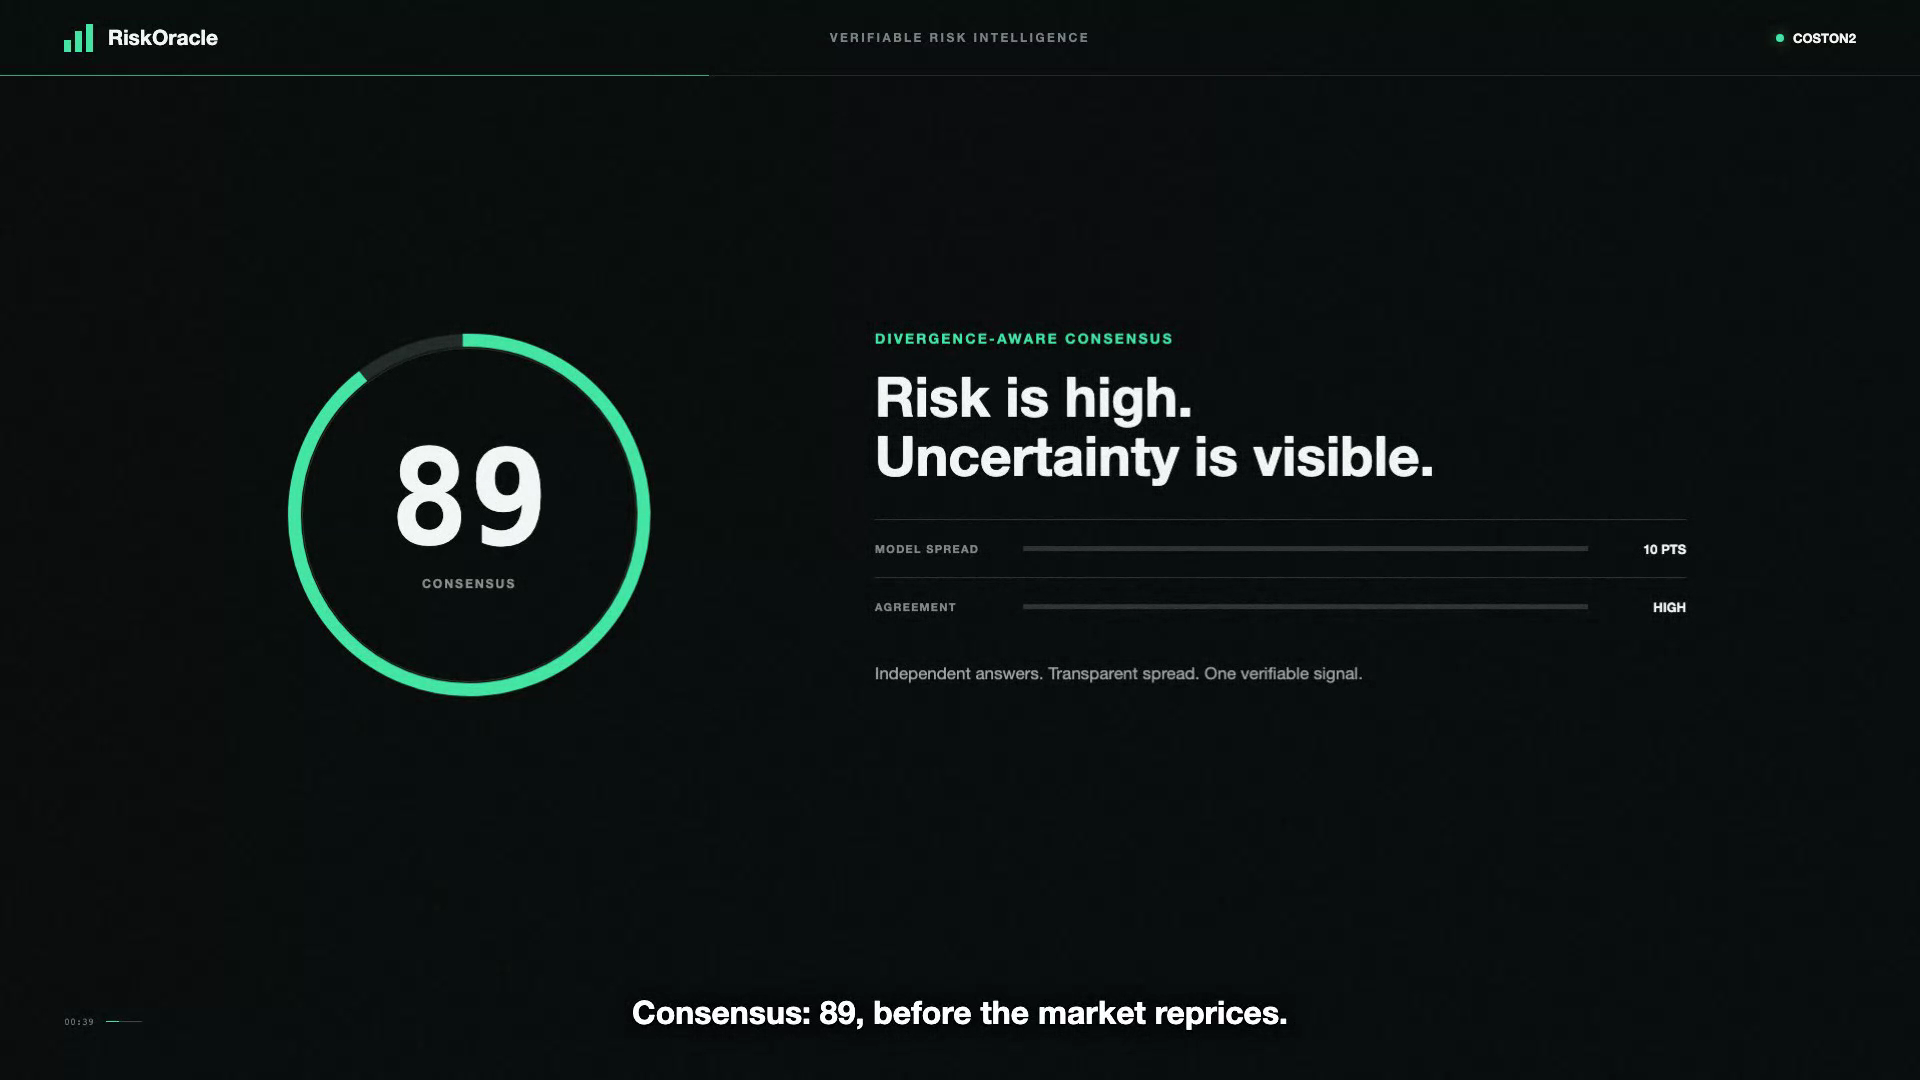
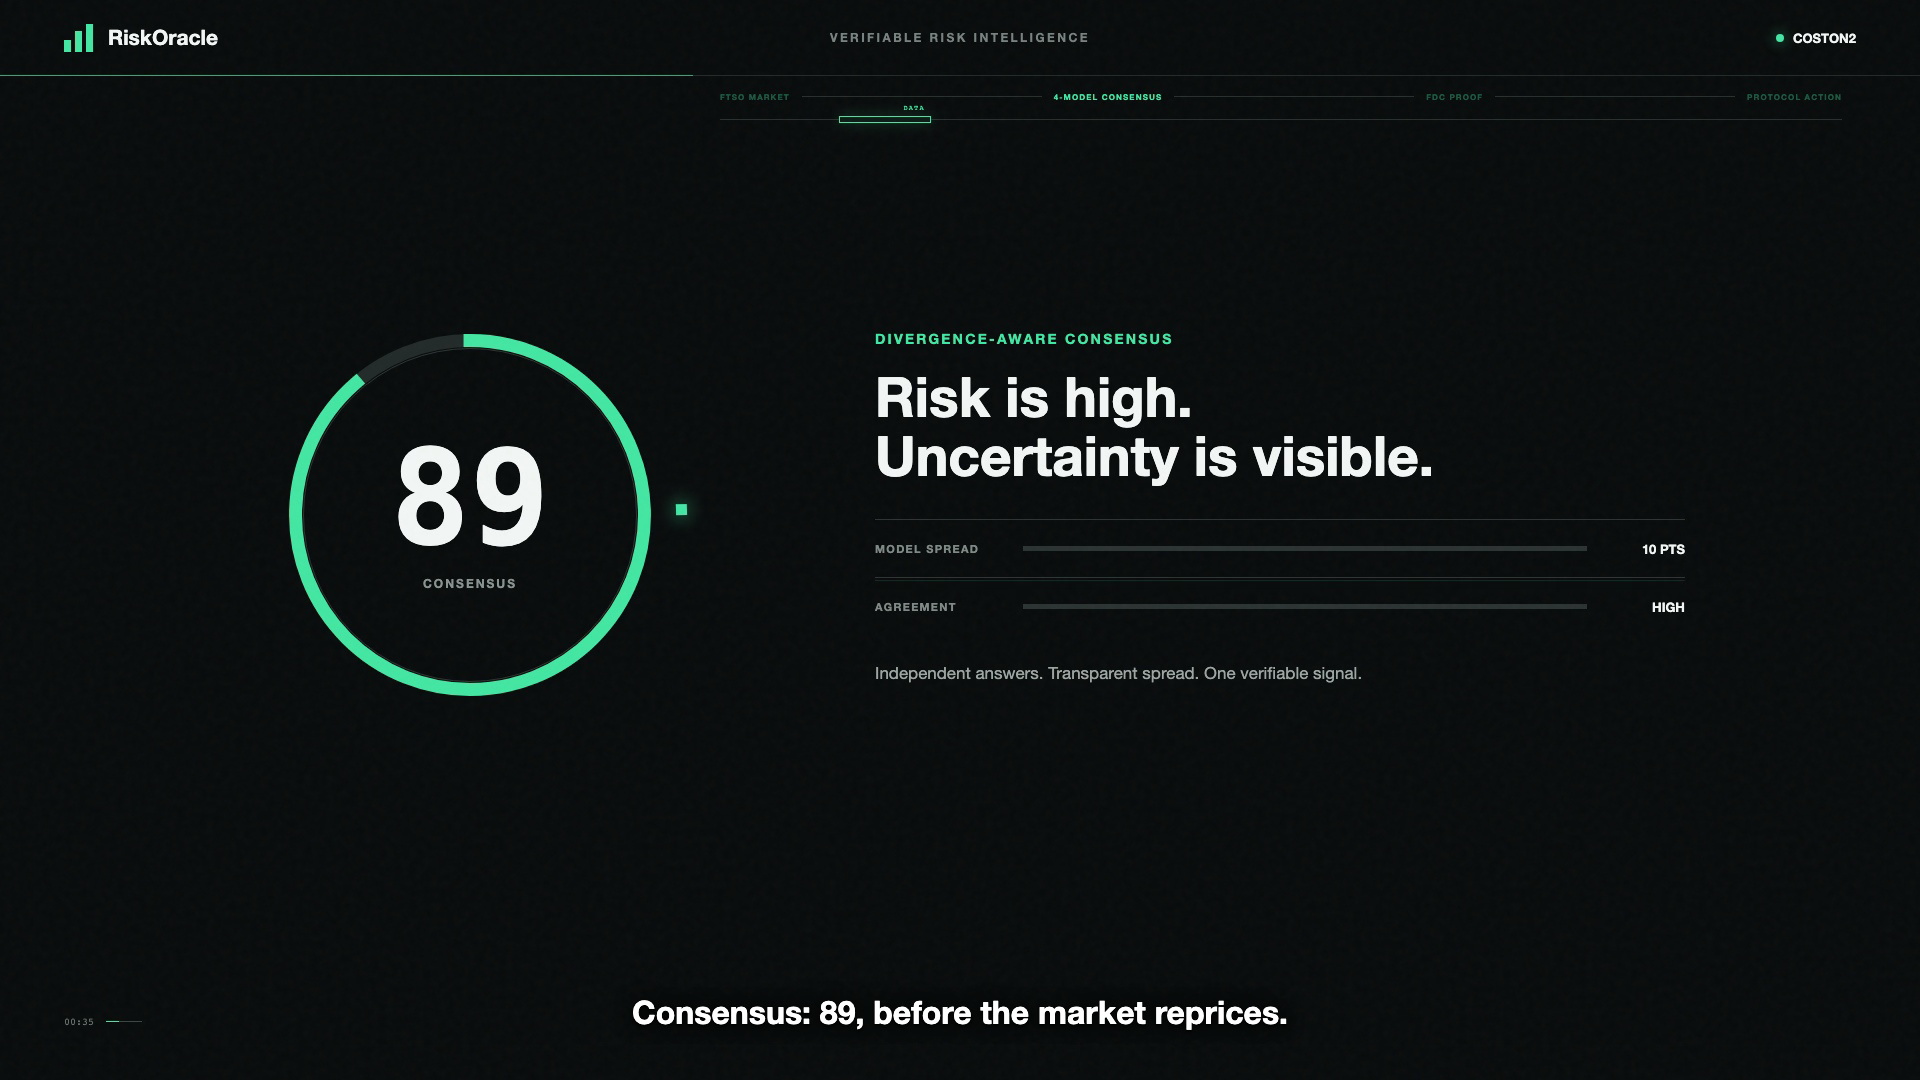
Refine judge film pacing motion and clarity

diff --git a/video/src/movie.js b/video/src/movie.js
@@ -1,5 +1,6 @@
 (() => {
-  const DURATION = 108;
+  const DURATION = 97;
+  const STORY_DURATION = 108;
   const film = document.getElementById("film");
   const root = document.documentElement;
   const scenes = [...document.querySelectorAll("[data-scene]")].map((element) => {
@@ -9,27 +10,27 @@
 
   const headline = "US SEC announces formal investigation into Ripple; exchanges consider suspending XRP trading.";
   const captions = [
-    [1.10, 3.964, "The XRP price hasn't moved."],
-    [3.914, 6.134, "But the risk already has."],
-    [6.134, 10.904, "Most DeFi collateral controls wait for price data to reveal a crisis."],
-    [10.904, 14.654, "By then, lending markets may already be exposed."],
-    [14.654, 18.744, "This is RiskOracle, built for interoperable assets on Flare."],
-    [18.744, 22.833, "Watch the same XRP price as a regulatory shock arrives."],
-    [22.833, 25.649, "A price-only oracle still reads low."],
-    [25.649, 29.557, "RiskOracle sends the headline to four independent models."],
-    [29.557, 38.064, "GPT-5.5 scores 92, Claude Opus 85, DeepSeek 95, and Qwen3 85."],
-    [38.064, 42.215, "Consensus: 89, before the market reprices."],
-    [42.215, 45.200, "The models never see one another's answers."],
-    [45.200, 52.664, "RiskOracle exposes their spread and applies divergence-aware consensus, making uncertainty visible instead of hiding it."],
-    [52.664, 56.899, "The pipeline begins with Flare FTSOv2 market state."],
-    [56.899, 62.033, "AI adds event, liquidity, volatility, and contagion context."],
-    [62.033, 70.734, "Because model output is non-deterministic, RiskOracle freezes the result into deterministic JSON for FDC Web2Json attestation."],
-    [70.734, 79.314, "Here is the proof: deployed Coston2 contracts, immutable RiskUpdated events, and a successful end-to-end FDC transaction."],
-    [79.314, 85.673, "Continuous demo updates use a lightweight signer; the full FDC path is already proven on-chain."],
-    [85.673, 93.562, "At risk 95, the FXRP lending example suspends new borrowing, and the insurance pool stops new underwriting."],
-    [93.562, 97.251, "One signal; policy remains with each protocol."],
-    [97.251, 100.516, "Built from scratch during Flare Summer Signal."],
-    [100.516, 106.571, "RiskOracle: verifiable risk intelligence for interoperable assets, before price reacts."]
+    [1.050, 2.832, "The XRP price hasn't moved."],
+    [2.832, 4.474, "But the risk already has."],
+    [4.474, 8.764, "Most DeFi collateral controls wait for price data to reveal a crisis."],
+    [8.764, 11.709, "By then, lending markets may already be exposed."],
+    [11.709, 15.459, "This is RiskOracle, built for interoperable assets on Flare."],
+    [15.459, 19.050, "Watch the same XRP price as a regulatory shock arrives."],
+    [19.050, 21.095, "A price-only oracle still reads low."],
+    [21.095, 24.591, "RiskOracle sends the headline to four independent models."],
+    [24.591, 32.430, "GPT-5.5 scores 92, Claude Opus 85, DeepSeek 95, and Qwen3 85."],
+    [32.430, 36.137, "Consensus: 89, before the market reprices."],
+    [36.137, 38.531, "The models never see one another's answers."],
+    [38.531, 46.052, "RiskOracle exposes their spread and applies divergence-aware consensus, making uncertainty visible instead of hiding it."],
+    [46.052, 49.802, "The pipeline begins with Flare FTSOv2 market state."],
+    [49.802, 54.262, "AI adds event, liquidity, volatility, and contagion context."],
+    [54.262, 62.504, "Because model output is non-deterministic, RiskOracle freezes the result into deterministic JSON for FDC Web2Json attestation."],
+    [62.504, 70.703, "Here is the proof: deployed Coston2 contracts, immutable RiskUpdated events, and a successful end-to-end FDC transaction."],
+    [70.703, 76.752, "Continuous demo updates use a lightweight signer; the full FDC path is already proven on-chain."],
+    [76.752, 83.669, "At risk 95, the FXRP lending example suspends new borrowing, and the insurance pool stops new underwriting."],
+    [83.669, 86.624, "One signal; policy remains with each protocol."],
+    [86.624, 89.103, "Built from scratch during Flare Summer Signal."],
+    [89.103, 94.802, "RiskOracle: verifiable risk intelligence for interoperable assets, before price reacts."]
   ];
 
   const modelSchedule = [
@@ -67,12 +68,8 @@
       const opacity = sceneOpacity(t, start, end);
       const entrance = ease(progress(t, start, start + 1.3));
       const exit = ease(progress(t, end - 1.2, end));
-      const camera = progress(t, start, end);
-      const drift = Math.sin((t - start) * 0.42) * 0.65;
       setElement(element, "--scene-opacity", opacity.toFixed(4));
-      setElement(element, "--scene-y", `${((1 - entrance) * 34 - exit * 20 - camera * 3 + drift).toFixed(3)}px`);
-      setElement(element, "--scene-scale", (0.986 + entrance * 0.014 + camera * 0.008 + exit * 0.01).toFixed(5));
-      setElement(element, "--scene-blur", `${((1 - entrance) * 5 + exit * 4).toFixed(2)}px`);
+      setElement(element, "--scene-y", `${Math.round((1 - entrance) * 24 - exit * 12)}px`);
       element.style.visibility = opacity > 0.001 ? "visible" : "hidden";
     });
     set("--topbar-show", smooth(progress(t, 12.8, 14.4)) * (1 - smooth(progress(t, 96.2, 98.0))));
@@ -85,6 +82,7 @@
     set("--hook-switch", ease(progress(t, 3.3, 4.4)));
     set("--event-show", ease(progress(t, 4.2, 5.1)));
     set("--exposure-show", ease(progress(t, 8.2, 9.7)));
+    set("--exposure-packet", `${((Math.max(t - 8.4, 0) / 1.5) % 1) * 100}%`);
   }
 
   function updateDemo(t) {
@@ -157,6 +155,7 @@
     set("--hash-reveal", ease(progress(t, 71.4, 74.4)));
     set("--event-row-show", ease(progress(t, 74.0, 76.7)));
     document.getElementById("block-count").textContent = String(Math.round(Number(number(33099000, 33099670, progress(t, 70.8, 73.8)))));
+    document.getElementById("confirm-count").textContent = `${String(Math.max(1, Math.round(Number(number(1, 18, progress(t, 72.0, 83.5)))))).padStart(2, "0")} / 18`;
   }
 
   function updateProtocols(t) {
@@ -204,14 +203,27 @@
   function render(t) {
     const time = clamp(t, 0, DURATION);
     set("--film-progress", time / DURATION);
-    updateScenes(time);
-    updateHook(time);
-    updateDemo(time);
-    updateConsensus(time);
-    updatePipeline(time);
-    updateProof(time);
-    updateProtocols(time);
-    updateOutro(time);
+    const storyTime = time * (STORY_DURATION / DURATION);
+    set("--micro", ((Math.sin(storyTime * 3.1) + 1) / 2).toFixed(4));
+    set("--micro-alt", ((Math.sin(storyTime * 2.2 + 1.7) + 1) / 2).toFixed(4));
+    set("--ring-angle", `${(storyTime * 11.5).toFixed(2)}deg`);
+    set("--proof-scan", `${((storyTime * 9) % 100).toFixed(2)}%`);
+    set("--market-scan-x", `${(4 + (storyTime * 8.5) % 90).toFixed(2)}%`);
+    set("--consensus-scan", `${((storyTime * 12) % 100).toFixed(2)}%`);
+    set("--rail-x", `${((storyTime * 7.2) % 90).toFixed(2)}%`);
+    set("--rail-show", 1 - smooth(progress(storyTime, 96.0, 99.0)));
+    set("--phase-market", storyTime < 24 ? 1 : 0.35);
+    set("--phase-models", storyTime >= 24 && storyTime < 52 ? 1 : 0.35);
+    set("--phase-proof", storyTime >= 52 && storyTime < 82 ? 1 : 0.35);
+    set("--phase-policy", storyTime >= 82 ? 1 : 0.35);
+    updateScenes(storyTime);
+    updateHook(storyTime);
+    updateDemo(storyTime);
+    updateConsensus(storyTime);
+    updatePipeline(storyTime);
+    updateProof(storyTime);
+    updateProtocols(storyTime);
+    updateOutro(storyTime);
     updateCaption(time);
     document.getElementById("timecode").textContent = `${String(Math.floor(time / 60)).padStart(2, "0")}:${String(Math.floor(time % 60)).padStart(2, "0")}`;
     film.dataset.time = time.toFixed(3);

diff --git a/video/src/movie.css b/video/src/movie.css
@@ -93,6 +93,16 @@ body { font-variant-numeric: tabular-nums; }
 .topbar-center { text-align: center; color: #77827f; font-size: 12px; font-weight: 700; letter-spacing: 2.4px; }
 .network { justify-self: end; display: flex; gap: 9px; align-items: center; font-size: 13px; font-weight: 750; }
 .network i, .live i { width: 8px; height: 8px; border-radius: 50%; background: var(--mint); box-shadow: 0 0 14px rgba(67,230,162,.65); }
+.signal-rail { position:absolute; z-index:41; top:92px; left:720px; right:78px; height:32px; display:grid; grid-template-columns:auto 1fr auto 1fr auto 1fr auto; gap:12px; align-items:start; color:#56615e; font-size:8px; font-weight:780; letter-spacing:1.1px; opacity:var(--rail-show,1); }
+.signal-rail::after { content:""; position:absolute; left:0; right:0; bottom:4px; height:1px; background:#26302d; }
+.signal-rail > i { height:1px; margin-top:4px; background:#26302d; }
+.signal-rail > span { transition:none; }
+.signal-rail .rail-market { color:rgba(67,230,162,var(--phase-market,.4)); }
+.signal-rail .rail-models { color:rgba(67,230,162,var(--phase-models,.4)); }
+.signal-rail .rail-proof { color:rgba(67,230,162,var(--phase-proof,.4)); }
+.signal-rail .rail-policy { color:rgba(67,230,162,var(--phase-policy,.4)); }
+.signal-rail > b { position:absolute; z-index:2; left:var(--rail-x,0%); bottom:1px; width:92px; height:7px; border:1px solid var(--mint); background:#0c1c16; box-shadow:0 0 14px rgba(67,230,162,.22); }
+.signal-rail > b::after { content:"DATA"; position:absolute; right:5px; top:-13px; color:var(--mint); font:7px ui-monospace,monospace; }
 
 .stage { position: absolute; inset: 0; z-index: 2; }
 .scene {
@@ -101,10 +111,9 @@ body { font-variant-numeric: tabular-nums; }
   padding: 108px 76px 150px;
   background: var(--bg);
   opacity: var(--scene-opacity);
-  transform: translateY(var(--scene-y)) scale(var(--scene-scale));
-  filter: blur(var(--scene-blur));
+  transform: translate3d(0, var(--scene-y), 0);
   transform-origin: center center;
-  will-change: opacity, transform, filter;
+  will-change: opacity, transform;
 }
 
 .section-label {
@@ -127,8 +136,8 @@ body { font-variant-numeric: tabular-nums; }
 .scene-hook { padding-top: 150px; }
 .hook-copy { position: absolute; left: 110px; top: 176px; width: 740px; }
 .hook-copy .eyebrow { display: flex; align-items: center; gap: 12px; }
-.pulse-dot { width: 10px; height: 10px; border-radius: 50%; background: var(--mint); box-shadow: 0 0 0 0 rgba(67,230,162,.45); animation: pulse 1.5s infinite; }
-@keyframes pulse { 65% { box-shadow: 0 0 0 12px rgba(67,230,162,0); } }
+.pulse-dot { width: 10px; height: 10px; border-radius: 50%; background: var(--mint); box-shadow: 0 0 0 0 rgba(67,230,162,.45); }
+.pulse-dot { box-shadow: 0 0 0 calc(var(--micro,0) * 12px) rgba(67,230,162,calc(.45 - var(--micro,0) * .45)); }
 .hook-copy h1 { margin: 30px 0 0; font-size: 100px; line-height: .98; font-weight: 760; letter-spacing: 0; }
 .hook-copy h1 span { color: #6f7876; }
 .hook-switch { margin: 34px 0 0; font-size: 31px; color: #b7c0bd; opacity: var(--hook-switch, 0); transform: translateY(calc((1 - var(--hook-switch, 0)) * 18px)); }
@@ -145,6 +154,7 @@ body { font-variant-numeric: tabular-nums; }
   box-shadow: 0 30px 80px rgba(0,0,0,.4);
   transform: translateX(calc((1 - var(--terminal-show, 0)) * 70px));
 }
+.price-terminal::after { content:""; position:absolute; z-index:3; left:var(--market-scan-x,4%); top:260px; width:1px; height:190px; background:var(--mint); opacity:.22; box-shadow:0 0 12px rgba(67,230,162,.45); }
 .terminal-head { height: 74px; padding: 0 28px; display: flex; align-items: center; justify-content: space-between; border-bottom: 1px solid var(--line); }
 .terminal-head div:first-child { display: flex; align-items: baseline; gap: 12px; }
 .terminal-head strong { font-size: 18px; }
@@ -159,6 +169,7 @@ body { font-variant-numeric: tabular-nums; }
 .grid-path { fill: none; stroke: #242c2b; stroke-width: 1; }
 .market-path { fill: none; stroke: var(--mint); stroke-width: 3; stroke-dasharray: 840; stroke-dashoffset: calc(840 * (1 - var(--line-progress, 0))); }
 .market-point { fill: var(--mint); opacity: var(--market-point, 0); }
+.market-point { transform:scale(calc(.72 + var(--micro,0) * .45)); transform-origin:center; transform-box:fill-box; }
 .event-wire { position: absolute; left: 0; right: 0; bottom: 0; height: 64px; padding: 0 28px; display: flex; align-items: center; justify-content: space-between; border-top: 1px solid #422828; background: #1b1111; color: #d99a9a; transform: scaleX(var(--event-show, 0)); transform-origin: right; }
 .event-time { font-family: ui-monospace, monospace; color: #8b6666; }
 .event-label { font-weight: 780; letter-spacing: 1.8px; }
@@ -183,6 +194,7 @@ body { font-variant-numeric: tabular-nums; }
 .exposure-state { display: flex; align-items: center; gap: 10px; font-size: 14px; font-weight: 800; }
 .exposure-state span { width: 11px; height: 11px; border-radius: 50%; background: var(--mint); }
 .exposure-arrow { height: 1px; background: #394241; position: relative; }
+.exposure-arrow::before { content:""; position:absolute; left:var(--exposure-packet,0%); top:-3px; width:7px; height:7px; background:var(--red); box-shadow:0 0 12px rgba(255,93,93,.6); }
 .exposure-arrow::after { content:""; position: absolute; right: 0; top: -5px; border-left: 8px solid #596360; border-top: 5px solid transparent; border-bottom: 5px solid transparent; }
 .exposure-account { display: flex; flex-direction: column; gap: 8px; text-align: right; }
 .exposure-account span { color: #899390; font-size: 12px; letter-spacing: 1.2px; }
@@ -218,6 +230,7 @@ body { font-variant-numeric: tabular-nums; }
 .model-top { display: grid; grid-template-columns: 32px 1fr 9px; gap: 10px; align-items: center; color: #b8c1be; font-size: 12px; font-weight: 760; }
 .model-icon { display: grid; place-items: center; width: 30px; height: 30px; border: 1px solid #48524f; color: var(--mint); font-family: ui-monospace, monospace; }
 .model-top i { width: 8px; height: 8px; border-radius: 50%; background: var(--mint); opacity: var(--model-ready, 0); }
+.model-top i { box-shadow:0 0 calc(4px + var(--micro,0) * 10px) rgba(67,230,162,.7); }
 .model-score { display: flex; align-items: baseline; margin-top: 22px; }
 .model-score b { font: 740 58px/1 ui-monospace, SFMono-Regular, Menlo, monospace; }
 .model-score small { color: #75817d; font-size: 13px; }
@@ -234,6 +247,7 @@ body { font-variant-numeric: tabular-nums; }
 .ring-wrap { position: relative; width: 470px; height: 470px; display: grid; place-items: center; }
 .ring-wrap::after { content:""; position:absolute; inset: 68px; border: 1px solid #2c3533; border-radius: 50%; }
 .ring-wrap svg { width: 420px; height: 420px; transform: rotate(-90deg); }
+.ring-wrap::before { content:""; position:absolute; z-index:3; left:231px; top:18px; width:11px; height:11px; background:var(--mint); box-shadow:0 0 18px rgba(67,230,162,.8); transform-origin:4px 217px; transform:rotate(var(--ring-angle,0deg)); }
 .ring-base, .ring-progress { fill: none; stroke-width: 8; }
 .ring-base { stroke: #222a29; }
 .ring-progress { stroke: var(--mint); stroke-linecap: square; stroke-dasharray: 678.6; stroke-dashoffset: calc(678.6 * (1 - var(--consensus-progress, 0))); }
@@ -242,6 +256,8 @@ body { font-variant-numeric: tabular-nums; }
 .ring-value span { margin-top: 18px; color: #88928f; font-size: 12px; font-weight: 760; letter-spacing: 2px; }
 .consensus-copy h2, .pipeline-title h2, .proof-copy h2, .protocol-heading h2 { margin: 20px 0 34px; font-size: 55px; line-height: 1.08; letter-spacing: 0; }
 .agreement-row { display: grid; grid-template-columns: 130px 1fr 80px; gap: 18px; align-items: center; min-height: 58px; border-top: 1px solid #2c3433; }
+.consensus-copy::after { content:""; position:absolute; left:0; right:0; top:var(--consensus-scan,35%); height:1px; background:var(--mint); opacity:.14; }
+.consensus-copy { position:relative; overflow:hidden; }
 .agreement-row > span { color: #7e8986; font-size: 11px; font-weight: 760; letter-spacing: 1.3px; }
 .agreement-row > strong { text-align: right; font-size: 13px; }
 .spread-line, .agreement-meter { height: 5px; background: #2b3332; position: relative; }
@@ -249,6 +265,9 @@ body { font-variant-numeric: tabular-nums; }
 .spread-line b { position: absolute; left: 0; top: 2px; height: 1px; background: #7a8d86; width: calc(var(--spread-show,0) * 100%); }
 .agreement-meter i { display:block; height: 100%; width: calc(var(--agreement-show,0) * 88%); background: var(--mint); }
 .consensus-copy p { margin-top: 28px; color: #9ba5a2; font-size: 17px; }
+.consensus-note { position:absolute; left:280px; right:280px; bottom:266px; height:42px; display:flex; align-items:center; gap:16px; color:#7d8985; font-size:10px; letter-spacing:1.1px; opacity:var(--ribbon-show,0); }
+.consensus-note strong { color:#c3cbc8; font-size:10px; }
+.consensus-note i { flex:1; height:1px; background:#303a37; }
 .model-ribbon { position:absolute; bottom: 176px; left: 280px; right: 280px; height: 76px; display:grid; grid-template-columns: repeat(4,1fr); border:1px solid #303837; opacity: var(--ribbon-show,0); }
 .model-ribbon div { display:flex; align-items:center; justify-content:center; gap:20px; border-right:1px solid #303837; }
 .model-ribbon div:last-child { border-right:0; }
@@ -295,12 +314,14 @@ body { font-variant-numeric: tabular-nums; }
 .path-truth span { color:#7e8985; font-size:10px; font-weight:760; letter-spacing:1.3px; }
 .path-truth strong { font-size:14px; }
 .tx-window { position:relative; height:610px; border:1px solid #394340; background:#0f1414; box-shadow:0 28px 80px rgba(0,0,0,.45); overflow:hidden; }
+.tx-window::after { content:""; position:absolute; z-index:4; left:0; right:0; top:var(--proof-scan,0%); height:1px; background:var(--mint); opacity:.24; box-shadow:0 0 12px rgba(67,230,162,.45); }
 .tx-head { height:66px; padding:0 22px; display:grid; grid-template-columns:1fr 1fr 1fr; align-items:center; border-bottom:1px solid #303837; }
 .tx-head > div { display:flex; gap:8px; }
 .tx-head > div span { width:10px; height:10px; border-radius:50%; background:#323a38; }
 .tx-head > strong { text-align:center; color:#a1aaa7; font-size:11px; letter-spacing:1.6px; }
 .tx-status { justify-self:end; display:flex; align-items:center; gap:8px; color:var(--mint); font-size:12px; opacity:var(--success-show,0); transform:translateX(calc((1 - var(--success-show,0)) * 20px)); }
 .tx-status i { width:8px; height:8px; border-radius:50%; background:var(--mint); box-shadow:0 0 14px rgba(67,230,162,.7); }
+.tx-status i { transform:scale(calc(.8 + var(--micro,0) * .4)); }
 .tx-hash { height:95px; padding:20px 25px; border-bottom:1px solid #293230; display:flex; flex-direction:column; gap:11px; }
 .tx-hash span, .tx-grid span { color:#75807d; font-size:10px; letter-spacing:1.2px; }
 .tx-hash code { color:#aeb8b5; font:12px ui-monospace,monospace; white-space:nowrap; overflow:hidden; width:calc(var(--hash-reveal,0) * 100%); }
@@ -316,6 +337,8 @@ body { font-variant-numeric: tabular-nums; }
 .event-row span { color:#828d89; font-size:12px; }
 .event-row code { color:#dde3e1; font:13px ui-monospace,monospace; }
 .event-row .verified { color:var(--mint); }
+.proof-confirmations { position:absolute; left:25px; right:25px; bottom:12px; height:28px; display:flex; align-items:center; justify-content:space-between; border-top:1px solid #293230; color:#7f8a87; font-size:9px; letter-spacing:1.1px; }
+.proof-confirmations strong { color:var(--mint); font:11px ui-monospace,monospace; }
 /* Protocols */
 .scene-protocols { background:#080b0b; }
 .protocol-heading { display:grid; grid-template-columns:1fr 600px; gap:70px; align-items:end; margin-top:95px; }
@@ -332,6 +355,7 @@ body { font-variant-numeric: tabular-nums; }
 .gauge-track b { position:absolute; top:-5px; left:calc(var(--risk-progress,0) * 100%); width:3px; height:18px; background:#f4f7f6; }
 .gauge-labels { display:flex; justify-content:space-between; margin-top:10px; color:#687470; font-size:9px; letter-spacing:1px; }
 .protocol-flow { position:relative; height:400px; margin-top:35px; }
+.policy-note { position:absolute; left:430px; right:0; top:55px; color:#74807c; font-size:9px; letter-spacing:1.4px; text-align:right; }
 .oracle-core { position:absolute; left:40px; top:92px; width:250px; height:220px; display:flex; flex-direction:column; align-items:center; justify-content:center; border:1px solid #46514d; background:#121817; }
 .oracle-core::after { content:""; position:absolute; inset:12px; border:1px solid #293330; }
 .oracle-core span,.oracle-core small { position:relative; z-index:1; color:#85918d; font-size:10px; letter-spacing:1.3px; }
@@ -354,6 +378,7 @@ body { font-variant-numeric: tabular-nums; }
 .policy-state i { width:8px; height:8px; border-radius:50%; background:var(--policy-color,var(--mint)); }
 .policy-alerts { position:absolute; left:506px; right:76px; bottom:164px; display:grid; grid-template-columns:1fr 1fr; gap:16px; }
 .policy-alert { height:64px; display:grid; grid-template-columns:42px 1fr auto; gap:14px; align-items:center; padding:0 20px; border:1px solid #673333; background:#1b1111; opacity:var(--alerts-show,0); transform:translateY(calc((1 - var(--alerts-show,0)) * 20px)); }
+.policy-alert { border-color:rgba(255,93,93,calc(.4 + var(--micro,0) * .35)); }
 .policy-alert i { width:28px; height:28px; border:1px solid var(--red); color:var(--red); display:grid; place-items:center; font-style:normal; font-weight:800; }
 .policy-alert span { color:#a98585; font-size:10px; letter-spacing:1.1px; }
 .policy-alert strong { color:var(--red); font-size:12px; }
@@ -367,6 +392,8 @@ body { font-variant-numeric: tabular-nums; }
 .outro-mark span:nth-child(1) { height:29px; }
 .outro-mark span:nth-child(2) { height:49px; }
 .outro-mark span:nth-child(3) { height:67px; }
+.outro-mark span { transform-origin:bottom; transform:scaleY(calc(.82 + var(--micro,0) * .18)); }
+.outro-mark span:nth-child(2) { transform:scaleY(calc(.9 + var(--micro-alt,0) * .1)); }
 .outro-title { font-size:77px; font-weight:780; }
 .outro-main h2 { margin:24px 0 0; color:#a2aaa8; font-size:39px; line-height:1.2; }
 .outro-main p { margin:24px 0 0; color:var(--mint); font-size:28px; font-weight:730; }
@@ -404,5 +431,4 @@ body { font-variant-numeric: tabular-nums; }
 .timecode i { width:36px; height:1px; background:#3b4642; }
 .timecode i::after { content:""; display:block; width:calc(var(--film-progress,0) * 100%); height:1px; background:var(--mint); }
 
-@keyframes caret { 0%,48% { opacity:1; } 49%,100% { opacity:0; } }
 @media (prefers-reduced-motion: reduce) { * { animation: none !important; } }

diff --git a/video/src/movie.html b/video/src/movie.html
@@ -20,6 +20,14 @@
         <div class="network"><i></i>COSTON2</div>
       </header>
 
+      <div class="signal-rail" aria-hidden="true">
+        <span class="rail-market">FTSO MARKET</span><i></i>
+        <span class="rail-models">4-MODEL CONSENSUS</span><i></i>
+        <span class="rail-proof">FDC PROOF</span><i></i>
+        <span class="rail-policy">PROTOCOL ACTION</span>
+        <b></b>
+      </div>
+
       <main class="stage">
         <section class="scene scene-hook" data-scene="0,15.5">
           <div class="hook-copy">
@@ -153,6 +161,9 @@
               <p>Independent answers. Transparent spread. One verifiable signal.</p>
             </div>
           </div>
+          <div class="consensus-note">
+            <span>INDEPENDENT INPUTS</span><strong>NO MODEL SEES ANOTHER MODEL'S OUTPUT</strong><i></i><span>UNCERTAINTY</span><strong>SPREAD PRESERVED</strong>
+          </div>
           <div class="model-ribbon">
             <div><span>GPT-5.5</span><b>92</b></div>
             <div><span>CLAUDE</span><b>85</b></div>
@@ -243,9 +254,10 @@
                 <div class="event-row"><span>asset</span><code>XRP</code></div>
                 <div class="event-row"><span>score</span><code>89</code></div>
                 <div class="event-row"><span>verified</span><code class="verified">true</code></div>
-                <div class="event-row"><span>attestationType</span><code>Web2Json</code></div>
-              </div>
+              <div class="event-row"><span>attestationType</span><code>Web2Json</code></div>
+              <div class="proof-confirmations"><span>BLOCK CONFIRMATIONS</span><strong id="confirm-count">01 / 18</strong></div>
             </div>
+          </div>
           </div>
         </section>
 
@@ -260,6 +272,7 @@
             </div>
           </div>
           <div class="protocol-flow">
+            <div class="policy-note">SAME SIGNAL · INDEPENDENT POLICY</div>
             <div class="oracle-core">
               <span>IRISKORACLE</span>
               <strong id="oracle-core-score">25</strong>

diff --git a/video/README.md b/video/README.md
@@ -5,7 +5,7 @@ RiskOracle Flare Summer Signal judge film.
 
 ## Creative format
 
-The 108-second film is a continuously rendered product story, not a screenshot
+The 97-second film is a continuously rendered product story, not a screenshot
 slideshow. A browser-based motion stage synchronizes:
 
 - a live XRP price and regulatory shock;
@@ -16,8 +16,9 @@ slideshow. A browser-based motion stage synchronizes:
 - separate FXRP lending and insurance policy responses.
 
 Captions are white text with a restrained shadow and no background panel. The
-English narration uses the `en-GB-RyanNeural` neural voice, supported by an
-original ambient bed and synchronized interface accents.
+English narration uses the conversational `en-US-AndrewMultilingualNeural`
+voice at `+18%`, supported by an original ambient bed and synchronized
+interface accents.
 
 ## Truth boundaries
 
@@ -38,8 +39,9 @@ original ambient bed and synchronized interface accents.
 
 - `src/movie.html`: semantic film scene structure.
 - `src/movie.css`: visual system and motion-ready UI composition.
-- `src/movie.js`: deterministic 108-second timeline and captions.
-- `src/record-motion.mjs`: Playwright preview-frame and real-time recording.
+- `src/movie.js`: deterministic 97-second timeline and captions.
+- `src/record-motion.mjs`: Playwright preview-frame and fallback recording.
+- `src/render-frames.mjs`: crisp frame-exact 1920x1080 picture rendering.
 - `src/render.sh`: trim, sound design, mix, master, captions, and final export.
 - `voiceover.txt`: approved English narration.
 - `captions.srt`: source subtitle timing.
@@ -58,8 +60,8 @@ export CODEX_NODE_MODULES=/Users/liudan/.cache/codex-runtimes/codex-primary-runt
 # Fast visual inspection at 25 key moments
 NODE_PATH="$CODEX_NODE_MODULES" node video/src/record-motion.mjs --preview
 
-# Real-time 108-second motion capture
-NODE_PATH="$CODEX_NODE_MODULES" node video/src/record-motion.mjs
+# Frame-exact high-quality picture master
+NODE_PATH="$CODEX_NODE_MODULES" node video/src/render-frames.mjs
 
 # Picture trim, neural voice, sound design, mix, and master
 bash video/src/render.sh
@@ -69,12 +71,12 @@ The neural narration input is generated with Edge TTS:
 
 ```bash
 python3 -m edge_tts \
-  --voice en-GB-RyanNeural \
-  --rate=+3% \
+  --voice en-US-AndrewMultilingualNeural \
+  --rate=+18% \
   --pitch=-2Hz \
   --file video/voiceover.txt \
-  --write-media video/work/audio/voice-neural-v2.mp3 \
-  --write-subtitles video/work/audio/voice-neural-v2.srt
+  --write-media video/work/audio/voice-neural-v3.mp3 \
+  --write-subtitles video/work/audio/voice-neural-v3.srt
 ```
 
 ## Deliverables
@@ -85,10 +87,11 @@ python3 -m edge_tts \
 
 ## Final verification
 
-- Runtime: `108.000s`
+- Runtime: `97.000s`
 - Video: H.264, `1920x1080`, `30 fps`
-- Audio: AAC, integrated loudness `-14.1 LUFS`, true peak `-1.3 dBFS`
-- Dynamic continuity: no freeze interval longer than `2.5s` at `-55 dB`
+- Picture: 2,910 frame-exact high-quality renders, no low-bitrate screen capture
+- Audio: AAC, integrated loudness `-14.0 LUFS`, true peak `-1.0 dBFS`
+- Motion: persistent signal rail plus scene-specific scans, pulses, counters, and data packets
 - Selected XRP price: `$1.13465` before and after the shock
 - Model scores: GPT-5.5 `92`, Claude Opus 4.8 `85`, DeepSeek `95`, Qwen3-235B `85`
 - Consensus: `89`, high agreement